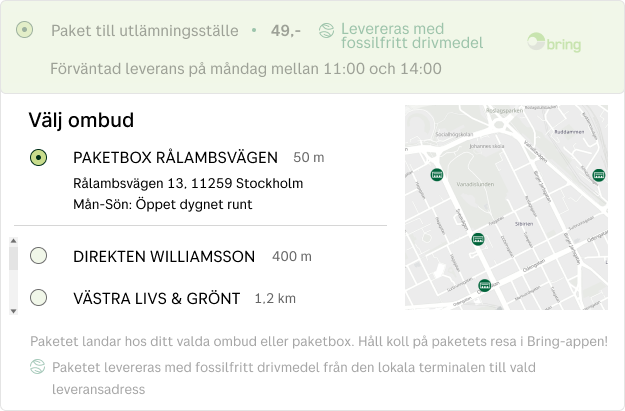
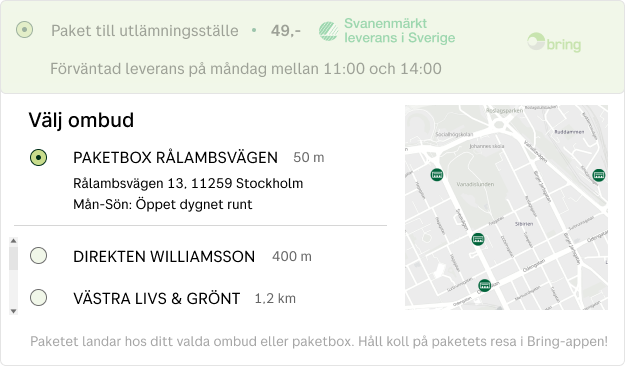
updating bpcg with svan env stuff

diff --git a/layouts/partials/checkout/best-practice-item.html b/layouts/partials/checkout/best-practice-item.html
@@ -31,7 +31,9 @@
     </div>
   </div>
   <figure>
-    <img src="{{ .illustrationImageUrl }}" alt="{{ .illustrationImageAlt }}" />
+    {{ range .illustrationImages }}
+        <img src="{{ .url }}" alt="{{ .alt }}" style="margin-right: 20px; margin-bottom: 20px;"  />
+    {{ end }}
   </figure>
 </div>
 {{- end -}}

diff --git a/content/api/shipping-guide_2/environmentaldata.md b/content/api/shipping-guide_2/environmentaldata.md
@@ -18,8 +18,8 @@ For the following Norwegian domestic and Nordic parcel services it is now possib
 * Bedriftspakke (BPAKKE_DOR-DOR)
 * Business Parcel (0330)
 * Business Parcel Bulk (0332)
-* Pickup Parcel (0340)
-* Pickup Parcel Bulk (0342)
+* Pickup Parcel (0340) - Nordic Swan Ecolabel delivery in Sweden
+* Pickup Parcel Bulk (0342) - Nordic Swan Ecolabel delivery in Sweden
 * Home Delivery Parcel (0349)
 * Business groupage (5100)
 * Business pallet (5400)
